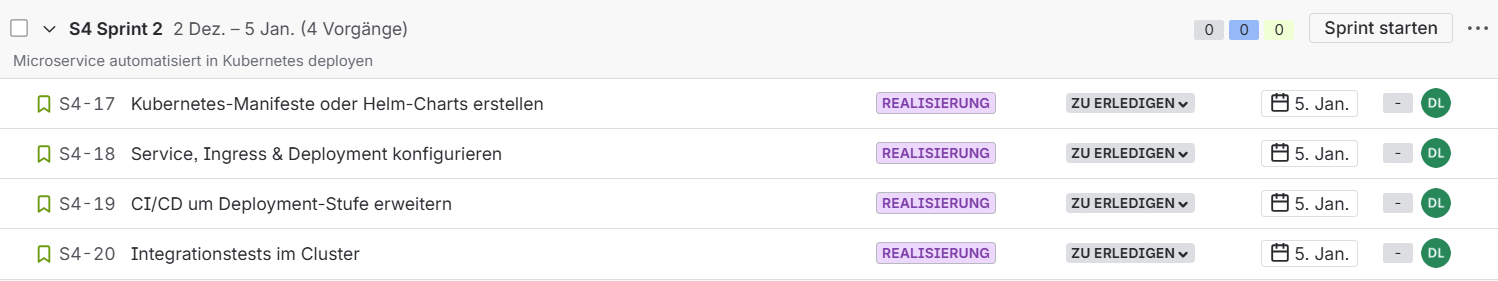
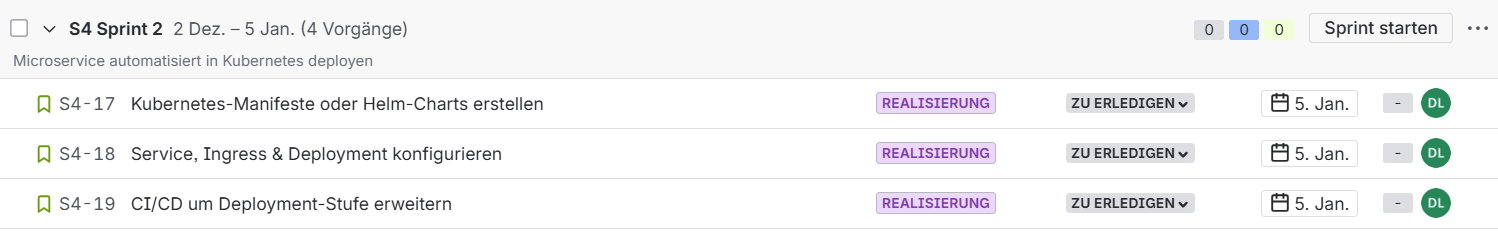
sprint review 2

diff --git a/Sprints/Sprint Abschlüsse.md b/Sprints/Sprint Abschlüsse.md
@@ -3,7 +3,6 @@
 - [Sprint Abschlüsse](#sprint-abschlüsse)
   - [Sprint Review 1](#sprint-review-1)
     - [Abgeschlossene Story\`s](#abgeschlossene-storys)
-    - [Besprechung](#besprechung)
   - [Sprint-Retrospektive 1](#sprint-retrospektive-1)
     - [Sonnenschein](#sonnenschein)
     - [Auftrieb](#auftrieb)
@@ -12,7 +11,6 @@
     - [Ausblick](#ausblick)
   - [Sprint Review 2](#sprint-review-2)
     - [Abgeschlossene Story\`s](#abgeschlossene-storys-1)
-    - [Besprechung](#besprechung-1)
   - [Sprint-Retrospektive 2](#sprint-retrospektive-2)
     - [Sonnenschein](#sonnenschein-1)
     - [Auftrieb](#auftrieb-1)
@@ -72,11 +70,6 @@ Folgendes wurde genau umgesetzt:
   - Pipeline-Status wird im Repository sichtbar angezeigt.
   - Fehlgeschlagene Builds oder Tests werden mit klaren Fehlermeldungen angezeigt.
 
-### Besprechung
-
-| Besprechung | Datum | Uhrzeit | Teilnehmer | 
-| ---- | ---- | ---- | ---- |
-
 ## Sprint-Retrospektive 1
 
 ![Retro1](../Pictures/SA4_Retro1.jpg)
@@ -113,24 +106,57 @@ Alle vorgesehenen Story`s konnten fristgerecht abgeschlossen werden.
 
 Folgendes wurde genau umgesetzt:
 
+- Kubernetes-Manifeste oder Helm-Charts erstellen
+  - Deployment-, Service- und ggf. ConfigMap-/Secret-Manifeste sind erstellt.
+  - Alle YAML-Dateien sind validiert und im Repository versioniert.
+  - Ressourcen können mit kubectl apply oder helm install ohne Fehler deployt werden.
+  - Dokumentation zur Nutzung und Anpassung der Manifeste ist vorhanden.
+
+- Service, Ingress & Deployment konfigurieren
+  - Deployment-Objekt ist korrekt definiert (Image, Replikas, Ressourcenlimits, etc.).
+  - Service stellt den Microservice intern bereit.
+  - Ingress ist eingerichtet und ermöglicht externen Zugriff über einen definierten Endpunkt.
+  - Zugriff auf den Microservice über den angegebenen Host oder Port ist erfolgreich.
+  - Änderungen an Konfigurationen können ohne Ausfall neu ausgerollt werden.
+
+- CI/CD um Deployment-Stufe erweitern
+  - Deployment-Schritt ist in die Pipeline integriert
+  - Deployment erfolgt nur, wenn Build und Tests erfolgreich sind.
+  - Pipeline führt automatisch kubectl apply oder helm upgrade aus.
+  - Erfolgreiches Deployment wird in der Pipeline angezeigt.
+  - Bei Fehlern wird das Deployment abgebrochen und der vorherige Zustand beibehalten.
+
 Folgender Punkt wurde während dem Sprint ergänzt:
 
-### Besprechung
-
-| Besprechung | Datum | Uhrzeit | Teilnehmer | 
-| ---- | ---- | ---- | ---- |
+Kein Punkt wurde ergänzt, der Sprint ging jedoch eine Woche länger also 5 Wochen, da noch eine Woche Ferien eingeplant sind und da nicht gearbeitet wurde.
 
 ## Sprint-Retrospektive 2
 
 ### Sonnenschein
 
+- Technische Herausforderungen gemeistert
+- Deployment stabil und funktionsfähig
+- Sprintziele erreicht  
+
 ### Auftrieb
+
+- Gute Einarbeitung in neue Themen
+- Produktiver Workflow über den Sprint hinweg
+- Klare Organisation und Fokus
 
 ### Gewitterwolken
 
+- Probleme mit Hyper V
+
 ### Sandballast
 
+- Teilweise Mehraufwand durch Trial-and-Error
+- Zeitaufwand schwer einschätzbar
+
 ### Ausblick
+
+- Ideen von Corrado umsetzten
+- Dokumentation weiterhin konsequent pflegen
 
 ## Sprint Review 3
 

diff --git a/Sites/Teil 3 Realisierung.md b/Sites/Teil 3 Realisierung.md
@@ -323,6 +323,7 @@ Die Tests wurden manuell durchgeführt, um sicherzustellen, dass der Kubernetes-
 
 | Testfall | Erwartetes Ergebnis | Testresultat |
 | -------- | ------------------- | ------------ |
+| CICD Pipline läuft | Die Pipline läuft ohne Fehler durch | ![pipline](../Pictures/pipline.png) |
 | Starten des Minikube-Clusters mit Docker-Driver | Cluster startet ohne Fehler, API-Server ist erreichbar | ![clusterstarten](../Pictures/clusterstarten.png) |
 | Überprüfung des Cluster-Status (`minikube status`) | Alle Komponenten (Host, Kubelet, API-Server) sind „Running“ | ![status](../Pictures/status.png) |
 | Zugriff auf den Cluster mit `kubectl` | `kubectl get pods` liefert eine gültige Antwort | ![testpods](../Pictures/testpods.png)|
